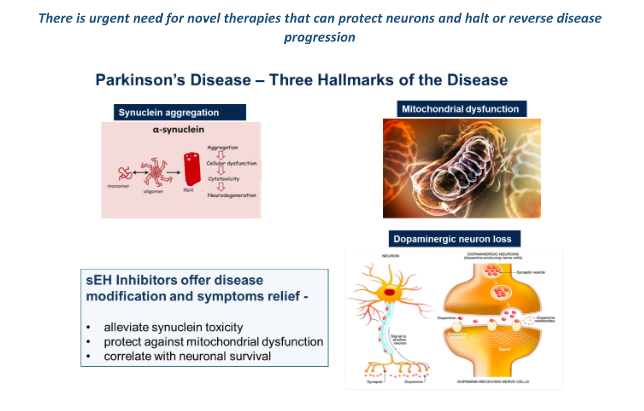
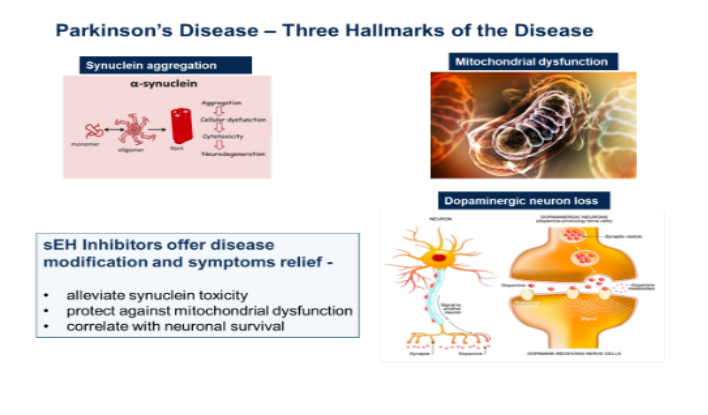
changes v2 corrections

diff --git a/science.html b/science.html
@@ -54,12 +54,15 @@
     </nav>
 
     <div class="content">
-      <h2 class="heading">Our Focus</h2>
-      <p>
-        NeuroPn Therapeutics is focused on developing treatments that address
-        underlying disease mechanism and deliver innovative therapies with
-        superior efficacy and improved safety profile over the marketed drugs.
+      <h2 class="heading">OUR FOCUS</h2>
+      <p style="font-size: 18px">
+        <b>
+          NeuroPn Therapeutics is focused on developing treatments that address
+          underlying disease mechanism and deliver innovative therapies with
+          superior efficacy and improved safety profile over the marketed drugs.
+        </b>
       </p>
+
       <div class="science-container">
         <h4 class="science-title">Parkinson's Disease</h4>
         <button
@@ -75,12 +78,15 @@
         <div class="collapse" id="learn-more-one">
           <div class="card card-body">
             <p>
-              Parkinsons’s disease (PD) is a chronic and progressive
-              degenerative movement disorder that affects over 1.5 million
-              Americans. Currently marketed dopamine replacement therapy can
-              alleviate motor symptoms in PD, but there are no therapies that
-              target the underlying neurodegenerative processes. Despite intense
-              research, molecular mechanisms causing neuronal loss are not fully
+              <b>
+                Parkinsons’s disease (PD) is a chronic and progressive
+                degenerative movement disorder that affects over 1.5 million
+                Americans.
+              </b>
+              Currently marketed dopamine replacement therapy can alleviate
+              motor symptoms in PD, but there are no therapies that target the
+              underlying neurodegenerative processes. Despite intense research,
+              molecular mechanisms causing neuronal loss are not fully
               understood which has hampered the development of new drugs and
               disease modifying therapies.
             </p>
@@ -90,6 +96,10 @@
               synergistically to accelerate Parkinson’s disease (PD)
               progression.
             </p>
+            <h4 class="science-title center-align purple">
+              There is urgent need for novel therapies that can protect neurons
+              and halt or reverse disease progression
+            </h4>
             <div class="science-image no-top-margin">
               <img src="images/parkinson.png" />
             </div>
@@ -111,13 +121,15 @@
         <div class="collapse" id="learn-more-two">
           <div class="card card-body">
             <p>
-              Despite emergence of innovative therapies, cancer remains among
-              the leading causes of death globally. Chemotherapy remains a
-              frontline treatment for many malignancies but accumulating
-              evidence suggests that chemotherapy and radiation generated tumor
-              cell debris (e.g., apoptotic and necrotic cells) promote tumor
-              growth and metastasis - possibly through generation of
-              proinflammatory eicosanoids and suppression of cancer-immunity
+              <b>
+                Despite emergence of innovative therapies, cancer remains among
+                the leading causes of death globally.
+              </b>
+              Chemotherapy remains a frontline treatment for many malignancies
+              but accumulating evidence suggests that chemotherapy and radiation
+              generated tumor cell debris (e.g., apoptotic and necrotic cells)
+              promote tumor growth and metastasis - possibly through generation
+              of proinflammatory eicosanoids and suppression of cancer-immunity
               cycle. Immunotherapies are emerging as novel treatment options for
               many malignancies but poor response rate and adverse events
               associated with overactivation of the immune system leads to
@@ -149,18 +161,21 @@
         <div class="collapse" id="learn-more-three">
           <div class="card card-body">
             <p>
-              Peripheral neuropathy is a serious nerve damage complication that
-              affects over 16 million Americans and is causally linked to a
-              number of diseases including diabetes, cancer, shingles,
-              infections such as HIV, chronic back pain, stroke, and multiple
-              sclerosis. The most commonly prescribed drug classes for
-              neuropathic pain such as antidepressants, serotonin-norepinephrine
-              reuptake inhibitors, anticonvulsants and opioids, have limited
-              efficacy and dose-limiting adverse effects. No single agent
-              provides optimal balance of safety, tolerability, and efficacy. As
-              a result, treatment of peripheral neuropathy continues to be
-              characterized by a high rate of polypharmacy and switching from
-              one agent to another.
+              <b>
+                Peripheral neuropathy is a serious nerve damage complication
+                that affects over 16 million Americans and is causally linked to
+                a number of diseases including diabetes, cancer, shingles,
+                infections such as HIV, chronic back pain, stroke, and multiple
+                sclerosis.
+              </b>
+              The most commonly prescribed drug classes for neuropathic pain
+              such as antidepressants, serotonin-norepinephrine reuptake
+              inhibitors, anticonvulsants and opioids, have limited efficacy and
+              dose-limiting adverse effects. No single agent provides optimal
+              balance of safety, tolerability, and efficacy. As a result,
+              treatment of peripheral neuropathy continues to be characterized
+              by a high rate of polypharmacy and switching from one agent to
+              another.
             </p>
             <p>
               All currently approved treatments for painful peripheral

diff --git a/approach.html b/approach.html
@@ -54,18 +54,16 @@
     </nav>
 
     <div class="content">
-      <h2 class="heading">Our Approach</h2>
-      <p>
-        At NeuroPn, we have developed a novel platform of oral soluble epoxide
-        hydrolase (sEH) inhibitors as disease modifying drugs for
-        neurodegenerative diseases and oncology.
+      <h2 class="heading">OUR APPROACH</h2>
+      <p style="font-size: 18px">
+        <b>
+          At NeuroPn, we have developed a novel platform of oral soluble epoxide
+          hydrolase (sEH) inhibitors as disease modifying drugs for
+          neurodegenerative diseases and oncology.
+        </b>
       </p>
 
       <div class="science-container">
-        <h4 class="science-title center-align purple">
-          sEH inhibition as a validated, multi-modal therapy for pain and
-          neurodegenerative diseases
-        </h4>
         <div class="science-image">
           <img src="images/approach-sEH.png" />
         </div>

diff --git a/index.html b/index.html
@@ -113,11 +113,11 @@
     <div class="content">
       <p>
         <b class="purple font-big">NeuroPn Therapeutics</b> is a
-        biopharmaceutical company
+        biopharmaceutical
         <b>
-          developing innovative, orally available, disease modifying
-          therapeutics for Parkinson's disease (PD), cancer and diabetic
-          peripheral neuropn (DPN).
+          company developing innovative, orally available, disease modifying
+          therapeutics for Parkinson's disease, cancer and diabetic peripheral
+          neuropathy.
         </b>
       </p>
 
@@ -128,8 +128,9 @@
       </p>
 
       <span>Learn more -</span>
-      <a href="approach.html">Our Approach</a>
-      <a href="science.html">Our Focus</a>
+      <a href="approach.html">OUR APPROACH</a>
+      <span>&nbsp;&nbsp;</span>
+      <a href="science.html">OUR FOCUS</a>
     </div>
 
     <footer>

diff --git a/contact.html b/contact.html
@@ -54,7 +54,7 @@
     </nav>
 
     <div class="content">
-      <h2 class="heading">Contact Us</h2>
+      <h2 class="heading">CONTACT US</h2>
       <div class="contact-container">
         <div class="contact-text">
           <p>

diff --git a/team.html b/team.html
@@ -54,7 +54,7 @@
     </nav>
 
     <div class="content">
-      <h2 class="heading">Our Team</h2>
+      <h2 class="heading">OUR TEAM</h2>
 
       <p>
         Our Management Team is a strong combination of Scientific and Business
